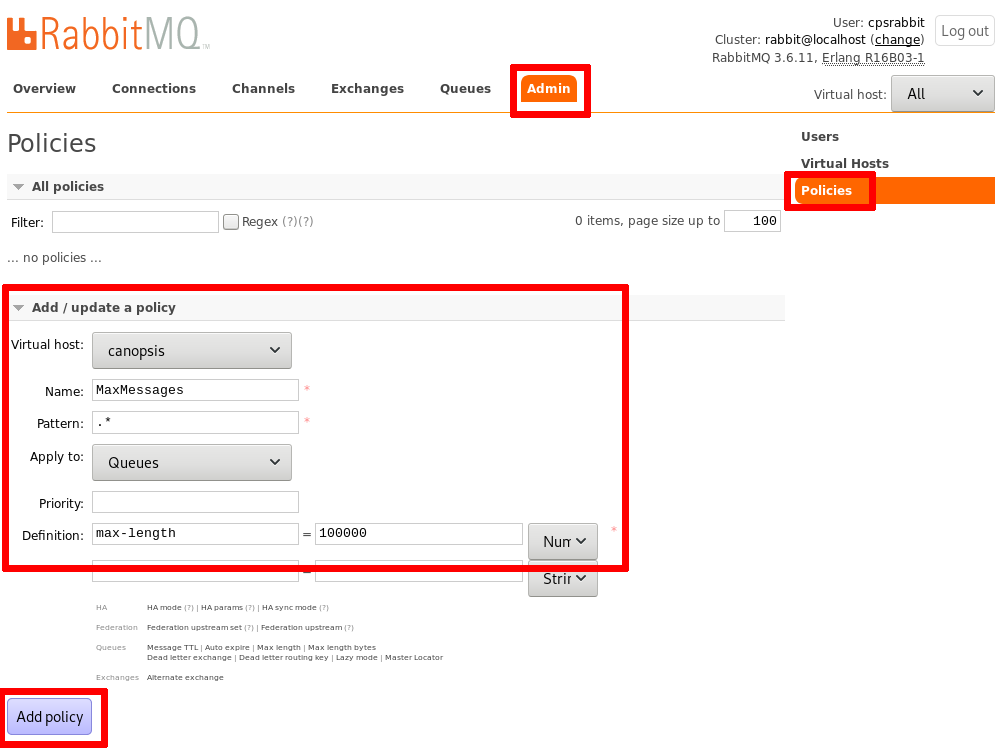
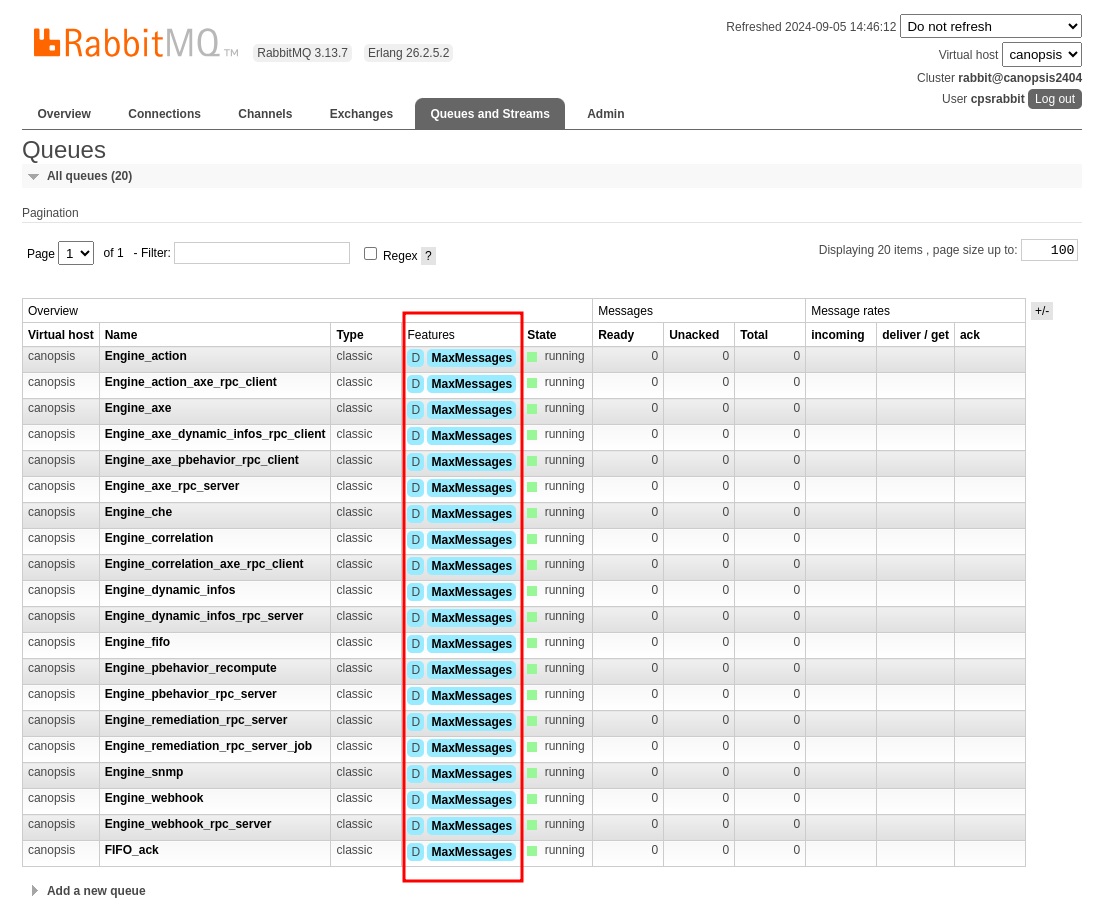
Merge branch 'doc/#5586/Add-Rabbitmq-Policy-Configuration-Howto' into 'develop'
Doc/#5586/add rabbitmq policy configuration howto

See merge request canopsis/canopsis-pro!4106

(cherry picked from commit 022125d1f08edd81710b7b356edf09ed03fbd244)

00dc5f2c Add Rabbitmq Policy Configuration Howto
d39865ca fix typo for max-length

diff --git a/community/sources/docs/fr/guide-de-depannage/rabbitmq-webui/index.md b/community/sources/docs/fr/guide-de-depannage/rabbitmq-webui/index.md
@@ -57,11 +57,27 @@ Afin de recevoir un message l'option *get messages* permet d'inspecter manuellem
 
 Afin d’éviter de remplir inutilement les files de RabbitMQ, il est possible de mettre en place une *policy*.
 
+*Il est recommandé de mettre en place une telle politique. Le nombre de 200 000
+(dans la commande ci-dessous) peut être revu en fonction du contexte.*
+
+
+### Avec l'interface graphique
+
 La procédure est la suivante :
+
+![img](../img/rabbitmq_add_policy.png)
+
+Ensuite, vous devez voir apparaître votre policy sur les files dans l’onglet « Queues »:
 
 ![img](../img/rabbitmq_policy.png)
 
-Ensuite, vous devez voir apparaître votre policy sur les files dans l’onglet « Queues ».
+### En ligne de commande
+
+**Depuis un seul nœud**, invoquer la commande suivante:
+
+```sh
+rabbitmqctl set_policy --vhost canopsis --apply-to queues MaxMessages "" '{"max-length": 200000}'
+```
 
 ## Aller plus loin
 
